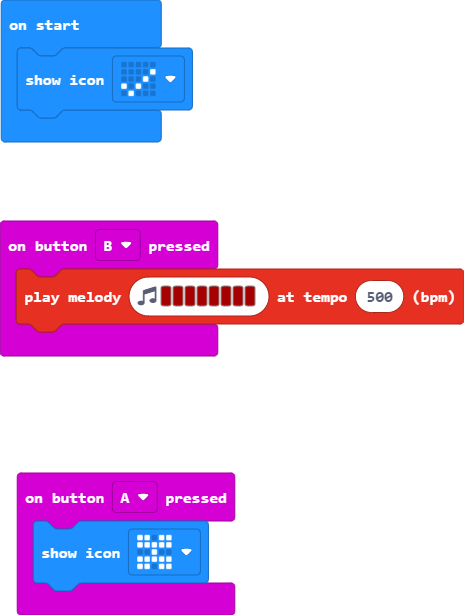
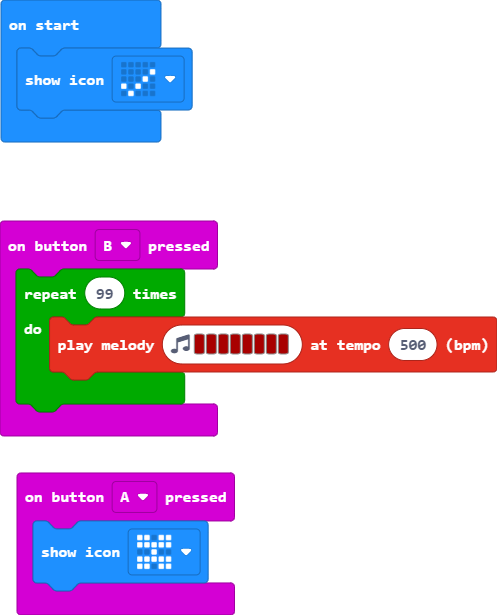
Update main.blocks, main.ts

diff --git a/main.ts b/main.ts
@@ -2,6 +2,8 @@ input.onButtonPressed(Button.A, function () {
     basic.showIcon(IconNames.Butterfly)
 })
 input.onButtonPressed(Button.B, function () {
-    music.playMelody("C5 C5 C5 C5 C5 C5 C5 C5 ", 500)
+    for (let index = 0; index < 99; index++) {
+        music.playMelody("C5 C5 C5 C5 C5 C5 C5 C5 ", 500)
+    }
 })
 basic.showIcon(IconNames.Yes)
